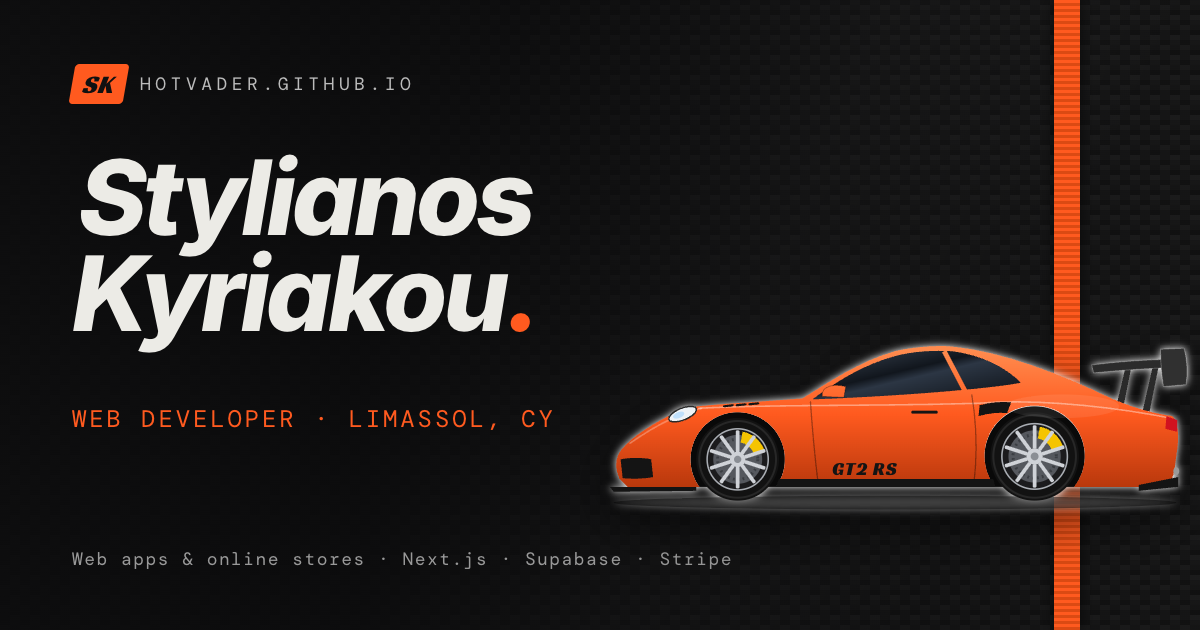
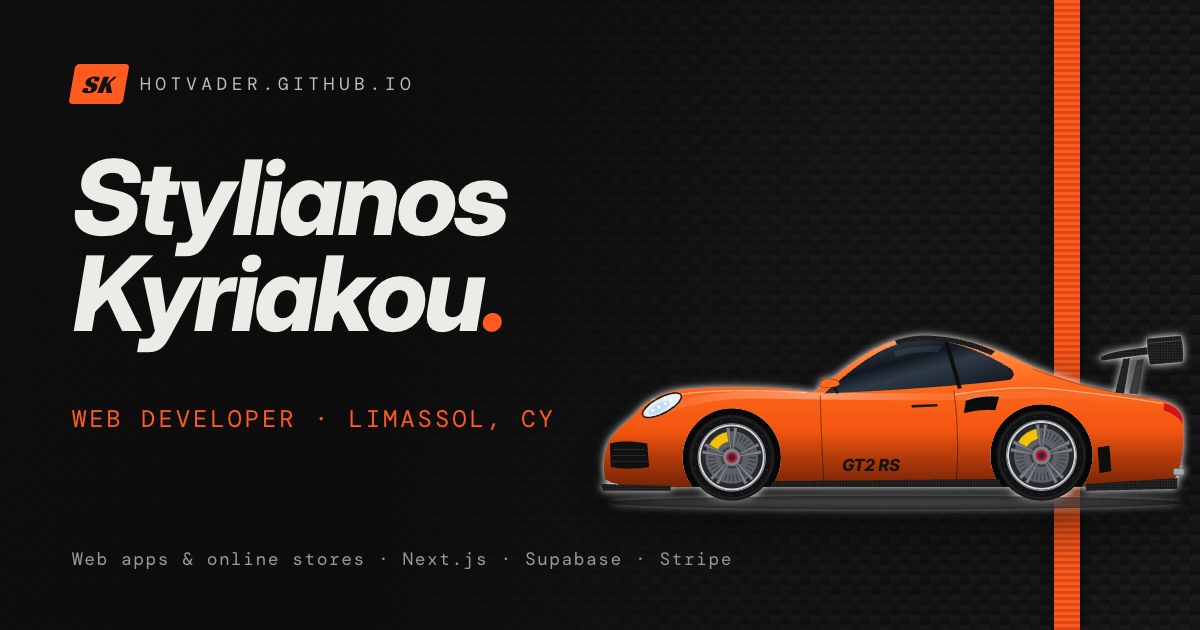
Redraw the car as an accurate 991.2 911 GT2 RS
Outline re-plotted from real proportions (1.0 m front overhang, 2.45 m
wheelbase, rear-engine overhang, continuous flyline, frog-eye headlights
in the fenders). Adds Weissach carbon roof, GT2 RS rear-fender intakes,
wing on pylons with endplates, centre-lock 5-double-spoke wheels with
yellow ceramic calipers, carbon splitter/skirts/diffuser, Lava Orange.
Social preview image regenerated with the new car.

Changed region(s): [[0.4933, 0.5127, 1.0, 0.8143], [0.0617, 0.2413, 0.4625, 0.5429]]

diff --git a/js/art.js b/js/art.js
@@ -3,102 +3,164 @@
 window.ART = (() => {
   let uid = 0;
 
-  // ---------- GT2 RS side profile (viewBox 0 0 600 210, facing left) ----------
-  const BODY = 'M 28,186 L 20,178 C 15,168 15,156 22,148 C 30,138 44,128 62,118 C 74,111 86,106 100,104 C 130,101 170,99 206,96 C 232,80 264,58 300,48 C 316,44 340,42 356,43 C 410,48 470,72 520,96 C 548,108 568,112 582,114 C 588,120 589,134 587,148 L 584,170 C 582,182 574,186 562,186 L 482,186 A 51 51 0 1 0 402 186 L 179,186 A 48 48 0 1 0 101 186 Z';
-  const GLASS = 'M 216,97 C 236,82 266,62 300,53 C 318,48 340,47 358,48 C 388,52 412,64 428,80 C 400,86 300,94 216,97 Z';
-  const WING = 'M 500,62 C 532,58 566,56 594,56 L 595,64 C 566,65 532,67 502,70 Z';
-  const UPRIGHTS = 'M 526,100 L 534,66 L 540,66 L 533,101 Z M 552,108 L 562,64 L 568,64 L 559,109 Z';
-  const ENDPLATE = 'M 570,46 L 594,45 C 597,56 598,70 596,82 L 573,84 C 571,72 570,58 570,46 Z';
-  const DOORS = 'M 214,99 C 216,130 219,160 222,184 M 378,92 C 383,120 384,155 380,184';
-  const PILLAR = 'M 350,48 L 372,90';
-  const INTAKE = 'M 386,103 C 396,100 408,99 418,100 L 414,111 C 405,110 396,111 385,114 Z';
-  const LOUVRES = 'M 126,104 l 9,-1 M 139,103 l 9,-1 M 152,102 l 9,-1';
-  const FRONT = { x: 140, y: 158, r: 42 };
-  const REAR = { x: 442, y: 155, r: 45 };
+  // ---------- 991.2 911 GT2 RS side profile (viewBox 0 0 600 210, facing left) ----------
+  // Proportions from the real car at ~128 units per metre: 1.0 m front overhang,
+  // 2.45 m wheelbase, 1.15 m rear overhang (engine behind the rear axle), 1.3 m tall.
+  const FRONT = { x: 134, y: 156, r: 44 };
+  const REAR = { x: 449, y: 154, r: 46 };
+  const BODY = [
+    'M 12,182 L 5,178',
+    'C 3,165 4,150 9,140 C 14,130 24,123 36,112',           // nose and bumper top
+    'C 46,100 60,90 84,87 C 110,84 150,84 180,86',          // fender rising past the headlight to its crest
+    'C 196,87 208,89 218,90',                               // cowl
+    'C 244,70 270,46 300,37 C 312,33 322,32 332,32',        // windshield into the roof
+    'C 372,34 402,45 432,60 C 462,74 500,86 534,92',        // the 911 flyline over the engine
+    'C 556,95 568,97 576,100 C 586,103 592,110 593,118',    // engine lid into the rounded tail
+    'C 594,135 593,152 590,164 C 588,174 584,180 578,183',  // rear face
+    'L 490,186 A 52 52 0 1 0 408 186 L 174,186',            // rear arch, sill
+    'A 50 50 0 1 0 94 186 L 40,187 Z',                      // front arch, chin
+  ].join(' ');
+  const GLASS = 'M 228,91 C 250,72 274,50 302,41 C 316,37 330,36 340,37 C 370,40 396,52 418,66 C 422,70 422,74 417,77 C 380,82 300,88 228,91 Z';
+  const ROOF = 'M 300,37 C 312,33 322,32 332,32 C 360,33 382,39 402,48 L 398,52 C 380,44 360,39 340,37 C 330,36 316,37 302,41 Z';
+  const QUARTER = 'M 352,38 L 366,86';
+  const DOORS = 'M 224,93 C 225,130 226,160 228,184 M 360,88 C 364,120 365,155 362,184';
+  const WING = 'M 508,54 C 520,47 552,44 586,41 L 589,48 C 556,51 528,55 510,58 Z';
+  const GURNEY = 'M 584,41 L 588,35 L 590,47 L 588,48 Z';
+  const ENDPLATE = 'M 556,35 L 591,32 C 593,41 594,50 593,59 L 559,62 C 557,53 556,44 556,35 Z';
+  const PYLON = 'M 524,90 L 532,56 L 539,55 L 533,91 Z';
+  const INTAKE = 'M 372,98 C 382,94 396,93 406,94 L 402,108 C 393,107 383,108 370,111 Z';
+  const HEADLIGHT = { cx: 63, cy: 103, rx: 22, ry: 8, rot: -28 };
+  const MIRROR = 'M 232,76 C 226,76 222,80 224,84 C 230,86 240,85 244,82 C 244,78 238,76 232,76 Z';
 
   const polar = (cx, cy, r, deg) => {
     const a = (deg * Math.PI) / 180;
     return [(cx + r * Math.cos(a)).toFixed(2), (cy + r * Math.sin(a)).toFixed(2)];
   };
 
+  // Centre-lock forged wheel: 5 double spokes, drilled disc, yellow ceramic-brake caliper
   function wheel({ x, y, r }) {
-    const rim = r * 0.74;
-    const ro = rim * 0.92, ri = rim * 0.56;
-    const [o1x, o1y] = polar(x, y, ro, -80), [o2x, o2y] = polar(x, y, ro, -20);
-    const [i2x, i2y] = polar(x, y, ri, -20), [i1x, i1y] = polar(x, y, ri, -80);
-    const spokes = Array.from({ length: 10 }, (_, i) =>
-      `<rect x="${x - 1.9}" y="${(y - rim + 1.5).toFixed(1)}" width="3.8" height="${(rim * 0.72).toFixed(1)}" rx="1.5" transform="rotate(${i * 36} ${x} ${y})"/>`
-    ).join('');
+    const rim = r * 0.74, f = (n) => n.toFixed(1);
+    const disc = rim * 0.82;
+    const [c1x, c1y] = polar(x, y, disc * 0.98, -150), [c2x, c2y] = polar(x, y, disc * 0.98, -95);
+    const [c3x, c3y] = polar(x, y, disc * 0.62, -95), [c4x, c4y] = polar(x, y, disc * 0.62, -150);
+    let spokes = '';
+    for (let i = 0; i < 5; i++) {
+      for (const off of [-7.5, 7.5]) {
+        const a = i * 72 + off - 90;
+        const [ax, ay] = polar(x, y, rim * 0.26, a - 5), [bx, by] = polar(x, y, rim * 0.26, a + 5);
+        const [cx, cy] = polar(x, y, rim * 0.93, a + 3.2), [dx, dy] = polar(x, y, rim * 0.93, a - 3.2);
+        spokes += `<path d="M ${ax},${ay} L ${dx},${dy} L ${cx},${cy} L ${bx},${by} Z"/>`;
+      }
+    }
     return `
-      <circle cx="${x}" cy="${y}" r="${r}" fill="#121212"/>
-      <circle cx="${x}" cy="${y}" r="${r - 3}" fill="none" stroke="#272727" stroke-width="2"/>
-      <circle cx="${x}" cy="${y}" r="${rim}" fill="#1b1b1d"/>
-      <circle cx="${x}" cy="${y}" r="${(rim * 0.8).toFixed(1)}" fill="#55585e"/>
-      <circle cx="${x}" cy="${y}" r="${(rim * 0.66).toFixed(1)}" fill="none" stroke="#3b3e43" stroke-width="3" stroke-dasharray="2 3"/>
-      <path d="M ${o1x},${o1y} A ${ro.toFixed(1)} ${ro.toFixed(1)} 0 0 1 ${o2x},${o2y} L ${i2x},${i2y} A ${ri.toFixed(1)} ${ri.toFixed(1)} 0 0 0 ${i1x},${i1y} Z" fill="#f5c400"/>
-      <g class="spokes" fill="#cfd2d7" style="transform-box:view-box;transform-origin:${x}px ${y}px">
-        ${spokes}
-        <circle cx="${x}" cy="${y}" r="${(rim * 0.25).toFixed(1)}"/>
-        <circle cx="${x}" cy="${y}" r="${(rim * 0.12).toFixed(1)}" fill="#8a8e94"/>
+      <circle cx="${x}" cy="${y}" r="${r}" fill="#111"/>
+      <circle cx="${x}" cy="${y}" r="${f(r - 2.5)}" fill="none" stroke="#1f1f1f" stroke-width="2.5"/>
+      <circle cx="${x}" cy="${y}" r="${f((r + rim) / 2)}" fill="none" stroke="#2a2a2a" stroke-width=".8" stroke-dasharray="3 9"/>
+      <circle cx="${x}" cy="${y}" r="${f(rim)}" fill="#26282c"/>
+      <circle cx="${x}" cy="${y}" r="${f(disc)}" fill="#5d6066"/>
+      <circle cx="${x}" cy="${y}" r="${f(disc * 0.78)}" fill="none" stroke="#3c3f44" stroke-width="${f(disc * 0.28)}" stroke-dasharray="1.2 2.6"/>
+      <circle cx="${x}" cy="${y}" r="${f(disc * 0.42)}" fill="#3a3c40"/>
+      <path d="M ${c1x},${c1y} A ${f(disc * 0.98)} ${f(disc * 0.98)} 0 0 1 ${c2x},${c2y} L ${c3x},${c3y} A ${f(disc * 0.62)} ${f(disc * 0.62)} 0 0 0 ${c4x},${c4y} Z" fill="#f2c200"/>
+      <g class="spokes" style="transform-box:view-box;transform-origin:${x}px ${y}px">
+        <g fill="#7b7f86" stroke="#4b4e53" stroke-width=".5">${spokes}</g>
+        <circle cx="${x}" cy="${y}" r="${f(rim * 0.27)}" fill="#7b7f86"/>
+        <circle cx="${x}" cy="${y}" r="${f(rim * 0.17)}" fill="#c8102e"/>
+        <circle cx="${x}" cy="${y}" r="${f(rim * 0.1)}" fill="#2a2a2a"/>
       </g>
-      <circle cx="${x}" cy="${y}" r="${rim}" fill="none" stroke="#a9adb3" stroke-width="1.6"/>`;
+      <circle cx="${x}" cy="${y}" r="${f(rim)}" fill="none" stroke="#d3d6db" stroke-width="2"/>
+      <circle cx="${x}" cy="${y}" r="${f(rim + 1.6)}" fill="none" stroke="#8e9198" stroke-width="1"/>`;
   }
 
   function car({ sketch = false } = {}) {
     if (sketch) {
       const wheels = [FRONT, REAR].map((w) =>
-        `<circle cx="${w.x}" cy="${w.y}" r="${w.r}"/><circle cx="${w.x}" cy="${w.y}" r="${(w.r * 0.74).toFixed(1)}"/><circle cx="${w.x}" cy="${w.y}" r="5"/>`
+        `<circle cx="${w.x}" cy="${w.y}" r="${w.r}"/><circle cx="${w.x}" cy="${w.y}" r="${(w.r * 0.74).toFixed(1)}"/><circle cx="${w.x}" cy="${w.y}" r="${(w.r * 0.2).toFixed(1)}"/>`
       ).join('');
+      const h = HEADLIGHT;
       return `<svg class="car car--sketch" viewBox="0 0 600 210" aria-hidden="true">
         <g fill="none" stroke="currentColor" stroke-width="1.8" stroke-linecap="round" stroke-linejoin="round">
-          <path d="${BODY}"/><path d="${GLASS}"/><path d="${WING}"/><path d="${UPRIGHTS}"/><path d="${ENDPLATE}"/>
-          <path d="${DOORS} ${PILLAR} ${LOUVRES}"/><path d="${INTAKE}"/>
-          <ellipse cx="84" cy="112" rx="15" ry="6" transform="rotate(-22 84 112)"/>
+          <path d="${BODY}"/><path d="${GLASS}"/><path d="${QUARTER}"/><path d="${DOORS}"/>
+          <path d="${WING}"/><path d="${ENDPLATE}"/><path d="${PYLON}"/><path d="${INTAKE}"/>
+          <ellipse cx="${h.cx}" cy="${h.cy}" rx="${h.rx}" ry="${h.ry}" transform="rotate(${h.rot} ${h.cx} ${h.cy})"/>
+          <path d="${MIRROR} M 238,84 L 242,91"/>
           ${wheels}
           <path d="M 4,202 C 120,199 300,204 596,200" stroke-width="1.3" opacity=".6"/>
-          <path d="M 600,128 l -70,0 M 600,146 l -46,0 M 600,40 l -60,0" stroke-width="1.3" opacity=".45"/>
+          <path d="M 600,128 l -70,0 M 600,146 l -46,0 M 610,40 l -50,0" stroke-width="1.3" opacity=".45"/>
         </g>
       </svg>`;
     }
 
     const id = 'car' + ++uid;
-    const paint = `url(#${id}-paint)`;
-    return `<svg class="car" viewBox="0 0 600 210" role="img" aria-label="Illustration of a 911 GT2 RS">
+    const u = (n) => `url(#${id}-${n})`;
+    const h = HEADLIGHT;
+    return `<svg class="car" viewBox="0 0 600 210" role="img" aria-label="Illustration of a Lava Orange 911 GT2 RS">
       <defs>
-        <linearGradient id="${id}-paint" x1="0" y1="48" x2="0" y2="190" gradientUnits="userSpaceOnUse">
-          <stop offset="0" stop-color="#ff8b4e"/><stop offset=".45" stop-color="#ff5a1f"/><stop offset="1" stop-color="#b5360b"/>
+        <linearGradient id="${id}-paint" x1="0" y1="30" x2="0" y2="190" gradientUnits="userSpaceOnUse">
+          <stop offset="0" stop-color="#ffa060"/><stop offset=".3" stop-color="#ff6a1f"/><stop offset=".62" stop-color="#f2540f"/><stop offset="1" stop-color="#a83208"/>
+        </linearGradient>
+        <linearGradient id="${id}-sheen" x1="0" y1="0" x2="1" y2="0">
+          <stop offset="0" stop-color="#fff" stop-opacity="0"/><stop offset=".35" stop-color="#fff" stop-opacity=".35"/><stop offset=".55" stop-color="#fff" stop-opacity=".1"/><stop offset="1" stop-color="#fff" stop-opacity="0"/>
         </linearGradient>
         <linearGradient id="${id}-glass" x1="0" y1="0" x2="1" y2="1">
-          <stop offset="0" stop-color="#3d4857"/><stop offset=".42" stop-color="#11161d"/><stop offset=".52" stop-color="#2c3644"/><stop offset="1" stop-color="#0b0f14"/>
+          <stop offset="0" stop-color="#4a5666"/><stop offset=".4" stop-color="#121820"/><stop offset=".55" stop-color="#2e3947"/><stop offset="1" stop-color="#0a0e13"/>
         </linearGradient>
+        <linearGradient id="${id}-low" x1="0" y1="130" x2="0" y2="188" gradientUnits="userSpaceOnUse">
+          <stop offset="0" stop-color="#000" stop-opacity="0"/><stop offset="1" stop-color="#000" stop-opacity=".32"/>
+        </linearGradient>
+        <pattern id="${id}-cf" width="4" height="4" patternUnits="userSpaceOnUse" patternTransform="rotate(45)">
+          <rect width="4" height="4" fill="#161616"/><rect width="2" height="2" fill="#262626"/><rect x="2" y="2" width="2" height="2" fill="#262626"/>
+        </pattern>
         <clipPath id="${id}-wells"><rect width="600" height="186"/></clipPath>
+        <clipPath id="${id}-body"><path d="${BODY}"/></clipPath>
       </defs>
-      <ellipse cx="300" cy="202" rx="286" ry="7" fill="#000" opacity=".45"/>
-      <g clip-path="url(#${id}-wells)" fill="#090909"><circle cx="140" cy="158" r="48"/><circle cx="442" cy="155" r="51"/></g>
+
+      <ellipse cx="300" cy="202" rx="290" ry="7" fill="#000" opacity=".5"/>
+      <g clip-path="url(#${id}-wells)" fill="#070707"><circle cx="134" cy="156" r="50"/><circle cx="449" cy="154" r="52"/></g>
       ${wheel(FRONT)}${wheel(REAR)}
-      <path d="${UPRIGHTS}" fill="#2a2a2a"/>
-      <path d="${BODY}" fill="${paint}"/>
-      <ellipse cx="470" cy="104" rx="58" ry="12" fill="#fff" opacity=".08"/>
-      <path d="M 30,142 C 50,128 76,112 104,106" fill="none" stroke="rgba(255,255,255,.28)" stroke-width="1.6"/>
-      <path d="M 100,106 C 180,102 280,104 384,101 C 440,96 520,104 580,116" fill="none" stroke="rgba(255,255,255,.4)" stroke-width="1.6"/>
-      <path d="${GLASS}" fill="url(#${id}-glass)"/>
-      <path d="${PILLAR}" stroke="${paint}" stroke-width="5"/>
-      <path d="${LOUVRES}" stroke="#141414" stroke-width="2.2" stroke-linecap="round"/>
-      <path d="${DOORS}" fill="none" stroke="rgba(0,0,0,.35)" stroke-width="1.3"/>
-      <path d="M 226,94 C 224,85 236,80 250,84 L 248,95 Z" fill="${paint}" stroke="rgba(0,0,0,.3)" stroke-width="1"/>
-      <path d="M 318,110 L 342,110" stroke="#151515" stroke-width="3" stroke-linecap="round"/>
-      <path d="${INTAKE}" fill="#141414"/>
-      <path d="M 182,178 L 400,178 L 402,186 L 179,186 Z" fill="#141414"/>
-      <path d="M 10,186 L 98,186 L 98,190 L 14,191 Z" fill="#141414"/>
-      <path d="M 21,158 C 30,156 44,156 52,158 L 54,176 C 44,178 30,178 23,177 Z" fill="#141414"/>
-      <path d="M 548,184 L 588,176 L 588,186 L 548,190 Z" fill="#141414"/>
-      <ellipse cx="586" cy="170" rx="3" ry="4" fill="#9a9a9a"/>
-      <path d="M 576,114 L 587,118 L 587,130 L 575,127 Z" fill="#d1121f"/>
-      <ellipse cx="84" cy="112" rx="15" ry="6" transform="rotate(-22 84 112)" fill="#eef3f7" stroke="#2a2a2a" stroke-width="1.5"/>
-      <ellipse cx="80" cy="113" rx="6" ry="3" transform="rotate(-22 80 113)" fill="#9fd3ff" opacity=".6"/>
-      <text x="236" y="174" font-family="'Racing Sans One', sans-serif" font-size="19" letter-spacing="1" fill="#141414">GT2 RS</text>
-      <path d="${WING}" fill="#2b2b2b" stroke="rgba(255,255,255,.22)" stroke-width="1"/>
-      <path d="${ENDPLATE}" fill="#303030" stroke="rgba(255,255,255,.25)" stroke-width="1"/>
+
+      <path d="${PYLON}" fill="#1c1c1c" transform="translate(14 1)" opacity=".7"/>
+      <path d="${PYLON}" fill="#222"/>
+
+      <path d="${BODY}" fill="${u('paint')}"/>
+      <g clip-path="url(#${id}-body)">
+        <rect x="0" y="130" width="600" height="60" fill="${u('low')}"/>
+        <path d="M 30,122 C 60,100 100,90 150,89 C 230,90 320,92 400,90 C 440,88 470,88 500,91 C 540,95 566,99 592,108 L 592,116 C 566,107 540,102 500,98 C 470,95 440,95 400,97 C 320,99 230,97 150,96 C 104,97 66,108 34,128 Z" fill="${u('sheen')}"/>
+        <path d="M 52,98 C 84,88 140,86 210,90 M 360,92 C 400,86 430,84 456,86 C 500,90 540,96 572,101" fill="none" stroke="rgba(255,255,255,.5)" stroke-width="1.2"/>
+      </g>
+
+      <path d="${GLASS}" fill="${u('glass')}"/>
+      <path d="${QUARTER}" stroke="#0d0d0d" stroke-width="4"/>
+      <path d="${ROOF}" fill="${u('cf')}"/>
+      <path d="M 300,48 C 316,43 334,42 348,43 L 344,49 C 330,48 314,49 300,54 Z" fill="#fff" opacity=".08"/>
+
+      <path d="${DOORS}" fill="none" stroke="rgba(0,0,0,.38)" stroke-width="1.2"/>
+      <path d="M 318,104 L 342,103" stroke="#1a1a1a" stroke-width="2.6" stroke-linecap="round"/>
+      <path d="M 238,84 L 242,91" stroke="#151515" stroke-width="2.4"/>
+      <path d="${MIRROR}" fill="${u('paint')}" stroke="rgba(0,0,0,.35)" stroke-width=".8"/>
+
+      <path d="${INTAKE}" fill="#0c0c0c"/>
+      <path d="M 372,98 C 382,94 396,93 406,94" fill="none" stroke="rgba(255,255,255,.35)" stroke-width="1"/>
+
+      <ellipse cx="${h.cx}" cy="${h.cy}" rx="${h.rx}" ry="${h.ry}" transform="rotate(${h.rot} ${h.cx} ${h.cy})" fill="#e9eef2" stroke="#1d1d1d" stroke-width="1.6"/>
+      <ellipse cx="${h.cx - 4}" cy="${h.cy + 1}" rx="${h.rx * 0.55}" ry="${h.ry * 0.55}" transform="rotate(${h.rot} ${h.cx} ${h.cy})" fill="#9fcff5" opacity=".55"/>
+      <g fill="#fff">${[-12, -4, 4, 12].map((d) => { const [px, py] = polar(h.cx, h.cy, Math.abs(d) * 0.9, h.rot + (d < 0 ? 180 : 0)); return `<circle cx="${px}" cy="${py}" r="1.5"/>`; }).join('')}</g>
+
+      <path d="M 10,142 C 18,139 34,139 48,142 L 50,166 C 36,168 22,168 11,166 Z" fill="#101010"/>
+      <path d="M 14,148 L 46,148 M 13,154 L 47,154 M 13,160 L 48,160" stroke="#2b2b2b" stroke-width="1"/>
+      <path d="M 1,183 L 72,185 L 72,190 L 3,190 Z" fill="${u('cf')}"/>
+      <path d="M 176,180 L 406,178 L 408,186 L 174,186 Z" fill="${u('cf')}"/>
+      <path d="M 494,183 L 587,177 L 587,188 L 494,190 Z" fill="${u('cf')}"/>
+      <path d="M 506,146 L 518,144 L 520,170 L 508,172 Z" fill="#0e0e0e"/>
+      <rect x="583" y="167" width="11" height="7" rx="2" fill="#a8adb3" stroke="#555" stroke-width=".8"/>
+      <path d="M 574,101 C 583,103 590,108 592,115 L 592,121 C 588,115 582,111 573,108 Z" fill="#d1121f"/>
+      <path d="M 440,66 C 480,82 520,90 560,96" fill="none" stroke="rgba(0,0,0,.3)" stroke-width="1"/>
+
+      <text x="246" y="170" font-family="'Inter', sans-serif" font-style="italic" font-weight="800" font-size="17" letter-spacing="-.3" fill="#141414">GT2 RS</text>
+
+      <path d="${WING}" fill="${u('cf')}" stroke="rgba(255,255,255,.25)" stroke-width=".8"/>
+      <path d="${GURNEY}" fill="#111"/>
+      <path d="${ENDPLATE}" fill="${u('cf')}" stroke="rgba(255,255,255,.28)" stroke-width="1"/>
+      <path d="M 558,40 L 591,37" stroke="rgba(255,255,255,.18)" stroke-width="1"/>
     </svg>`;
   }
 
